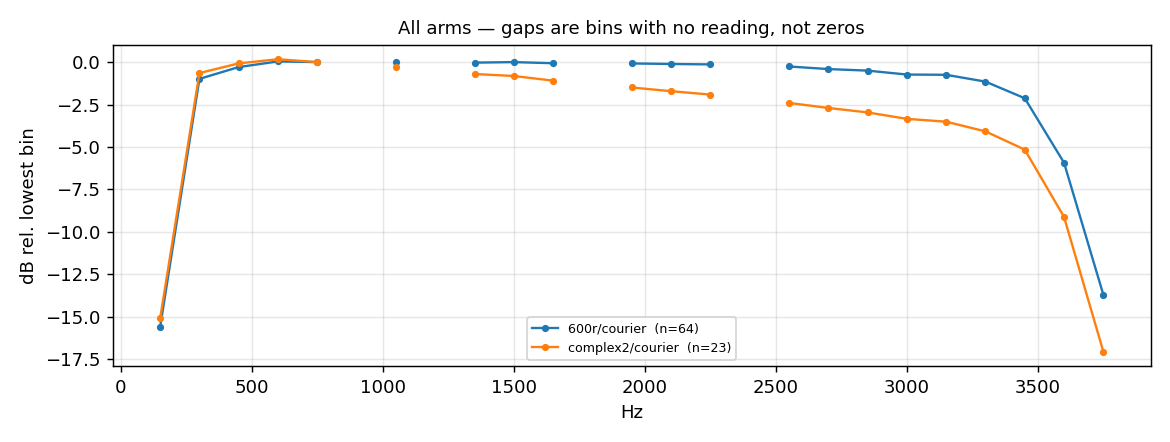
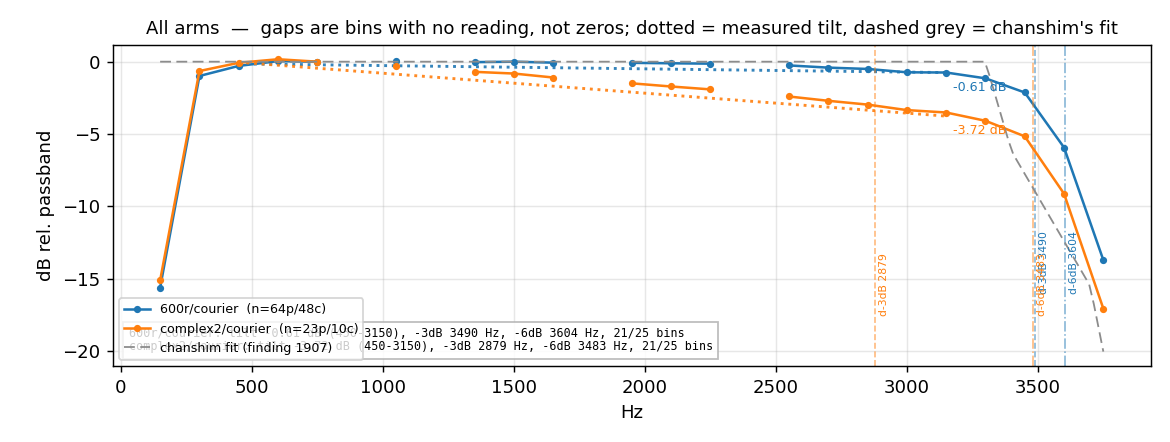
linesweep: stats subcommand, corner frequencies, annotated plot
Adds everything the numbers were being read out of ad-hoc commands for:

  stats   full text report per arm -- provenance (and whether the impedance is
          ASSERTED or EVIDENCED against a config sha256), denominators, both
          tilt bands with what each one means, passband reference, -3/-6 dB
          corners, and the per-bin delta against the curve chanshim hardcodes.
          Then an arm-to-arm block with the n of both sides beside it.

  plot    the measured tilt drawn as a dotted segment over the band it was
          measured in with its value, corner frequencies as labelled verticals,
          1907's fit as a grey dashed reference, and a facts box per panel.

Corners are interpolated BETWEEN TWO MEASURED BINS -- both endpoints are
readings, so this is interpolation and not extrapolation -- and are None rather
than pinned to the last bin when the curve never crosses.

It also no longer calls waitquiet.sh.  Whether the machine is quiet enough is
the caller's policy: a measurement tool that blocks on its own judgement cannot
characterise a loaded machine on purpose, and it hides a decision the operator
should be making.  The load is printed and recorded instead.

diff --git a/testbench/linesweep.py b/testbench/linesweep.py
@@ -166,6 +166,46 @@ def build_model(impedance, modem, logs, ata_config=None, note=None):
     tilt = None if tdb is None else round(float(tdb), 3)
     pts = [0] * tn
 
+    # Second band, reported alongside and never instead.  450-3150 is finding
+    # 1956's band and stops short of the codec corner, so it is TILT; the wider
+    # 300-3400 includes the corner, so it is tilt PLUS band limit.  They are
+    # different quantities and quoting one as the other is how a roll-off gets
+    # reported as a slope.
+    wdb, wn = bandshape.tilt(np.asarray(r["f"], float),
+                             np.asarray(r["med"], float),
+                             np.asarray(r["ffrac"], float), 300.0, 3400.0)
+
+    # CORNER FREQUENCIES, by linear interpolation BETWEEN TWO MEASURED BINS.
+    # That is interpolation, not extrapolation: both endpoints are readings and
+    # the answer lies between them.  If the curve never crosses, the corner is
+    # None -- it is not pinned to the last bin.
+    read = [(b["hz"], b["db"]) for b in bins
+            if b["is_reading"] and not b["is_noise_bin"]]
+    ref = None
+    corners = {}
+    if read:
+        band = [d for f, d in read if 300.0 <= f <= 1000.0]
+        ref = float(np.median(band)) if band else float(read[0][1])
+        for drop in (3.0, 6.0):
+            hit = None
+            for (f0, d0), (f1, d1) in zip(read, read[1:]):
+                if f1 < 1000.0:
+                    continue
+                if (d0 - ref) >= -drop > (d1 - ref):
+                    t = ((ref - drop) - d0) / (d1 - d0)
+                    hit = round(f0 + t * (f1 - f0), 1)
+                    break
+            corners[f"minus{int(drop)}db_hz"] = hit
+
+    fit_delta = []
+    for hz in (3300.0, 3450.0, 3600.0, 3750.0):
+        b = next((x for x in bins if x["hz"] == hz), None)
+        if b and b["db"] is not None:
+            fit_delta.append({"hz": hz, "measured_db": round(b["db"], 2),
+                              "fit_db": round(float(bandshape.fit_db(hz)), 2),
+                              "delta_db": round(b["db"]
+                                                - float(bandshape.fit_db(hz)), 2)})
+
     return {
         "schema": SCHEMA,
         "impedance": {
@@ -180,7 +220,13 @@ def build_model(impedance, modem, logs, ata_config=None, note=None):
         "n_bins_read": sum(1 for b in bins if b["is_reading"]),
         "n_bins_total": len(bins),
         "tilt": {"band_hz": [lo, hi], "db": tilt,
-                 "n_points": len(pts)} if tilt is not None else None,
+                 "n_points": tn} if tilt is not None else None,
+        "tilt_wide": ({"band_hz": [300.0, 3400.0], "db": round(float(wdb), 3),
+                       "n_points": wn} if wdb is not None else None),
+        "passband_ref_db": (None if ref is None else round(ref, 3)),
+        "corners_hz": corners,
+        "n_bins_floored": sum(1 for b in bins if not b["is_reading"]),
+        "vs_1907_fit": fit_delta,
         "note": note,
         "captures": [os.path.basename(p).split(".")[0] for p in logs],
         "bins": bins,
@@ -235,11 +281,26 @@ def cmd_measure(a):
         sys.exit(f"linesweep: cannot resolve an extension for '{a.modem}'")
     stamp = _dt.datetime.now().strftime("%Y%m%d-%H%M")
     labels = []
+    # THIS DOES NOT WAIT FOR A QUIET MACHINE, DELIBERATELY.  Whether the box
+    # is quiet enough to measure on is the caller's policy, not this tool's: a
+    # measurement tool that blocks on its own judgement cannot be used to
+    # characterise a loaded machine on purpose, and it hides a decision the
+    # operator should be making.  `waitquiet.sh` is right there:
+    #
+    #     testbench/waitquiet.sh && linesweep.py measure ...
+    #
+    # Finding 1951 is why it matters -- a call at load 4.28 returned CONNECT
+    # 4800 against 31200 quiet.  The load is recorded with every arm so a
+    # result taken on a busy box can at least be identified later.
     print(f'measuring {a.modem} (ext {ext}) at impedance '
           f'{a.impedance} -- {a.calls} calls')
+    try:
+        print(f'  load at start: {os.getloadavg()[0]:.2f}  '
+              f'(this tool does not gate on it -- see waitquiet.sh)')
+    except OSError:
+        pass
     for i in range(1, a.calls + 1):
         lab = f"ls-{a.impedance}-{a.modem}-{stamp}-{i}"
-        subprocess.run([os.path.join(BENCH, "waitquiet.sh")], check=False)
         r = subprocess.run(["timeout", "220", row,
                             os.path.join(BENCH, "captures", lab), "pty", ext],
                            capture_output=True, text=True)
@@ -314,6 +375,86 @@ def cmd_compare(a):
     return 0
 
 
+
+def _fmt_arm(m):
+    out = []
+    a = out.append
+    imp, role = m["impedance"]["asserted"], m["modem"]["role"]
+    ev = "EVIDENCED" if m["impedance"]["evidence"] else "ASSERTED (operator's word)"
+    a(f'{imp} / {role}')
+    a(f'  provenance     {ev}')
+    if m["impedance"]["evidence"]:
+        e = m["impedance"]["evidence"]
+        a(f'                 {os.path.basename(e["path"])}  '
+          f'sha256 {e["sha256"][:16]}...')
+        a(f'                 {e["ports_setting_impedance"]} port(s) set it: '
+          f'{", ".join(e["impedance_lines"]) or "(none in file)"}')
+    if m["modem"].get("identity"):
+        a(f'  modem          {m["modem"]["identity"][:88]}')
+    a(f'  measured       {m["measured_utc"]}')
+    a(f'  denominators   {m["n_calls"]} calls, {m["n_probes"]} probes, '
+      f'{m["n_bins_read"]}/{m["n_bins_total"]} bins read '
+      f'({m["n_bins_floored"]} floored)')
+    if m.get("note"):
+        a(f'  note           {m["note"]}')
+    a('')
+    t, w = m.get("tilt"), m.get("tilt_wide")
+    if t:
+        a(f'  tilt   {t["band_hz"][0]:.0f}-{t["band_hz"][1]:.0f} Hz  '
+          f'{t["db"]:+6.2f} dB over {t["n_points"]} bins   '
+          f'<- 1956 band, stops short of the corner: this IS the tilt')
+    if w:
+        a(f'  tilt   {w["band_hz"][0]:.0f}-{w["band_hz"][1]:.0f} Hz  '
+          f'{w["db"]:+6.2f} dB over {w["n_points"]} bins   '
+          f'<- includes the corner: tilt PLUS band limit')
+    c = m.get("corners_hz") or {}
+    ref = m.get("passband_ref_db")
+    if ref is not None:
+        a(f'  passband ref   {ref:+.2f} dB  (median 300-1000 Hz)')
+    for k, lbl in (("minus3db_hz", "-3 dB"), ("minus6db_hz", "-6 dB")):
+        v = c.get(k)
+        a(f'  corner {lbl}   ' + (f'{v:.0f} Hz  (interpolated between two '
+                                  f'measured bins)' if v else
+                                  'not crossed within the measured band'))
+    if m.get("vs_1907_fit"):
+        a('')
+        a("  against the curve chanshim.py hardcodes (finding 1907's fit):")
+        a(f'    {"Hz":>6} {"measured":>10} {"fit":>9} {"delta":>9}')
+        for d in m["vs_1907_fit"]:
+            a(f'    {d["hz"]:>6.0f} {d["measured_db"]:>10.2f} '
+              f'{d["fit_db"]:>9.2f} {d["delta_db"]:>+9.2f}')
+    return out
+
+
+def cmd_stats(a):
+    ms = [m for m in load_all() if not a.modem or m["modem"]["role"] == a.modem]
+    if not ms:
+        sys.exit("linesweep: no models match. Nothing to report.")
+    for m in ms:
+        print("=" * 74)
+        print("\n".join(_fmt_arm(m)))
+        print()
+    if len(ms) >= 2:
+        print("=" * 74)
+        print("ARM TO ARM\n")
+        base = ms[0]
+        for m in ms[1:]:
+            print(f'  {m["impedance"]["asserted"]}/{m["modem"]["role"]} '
+                  f'minus {base["impedance"]["asserted"]}/{base["modem"]["role"]}')
+            for k, lbl in (("tilt", "tilt 450-3150"), ("tilt_wide", "tilt 300-3400")):
+                if m.get(k) and base.get(k):
+                    print(f'    {lbl:<16} {m[k]["db"] - base[k]["db"]:+.2f} dB')
+            for k, lbl in (("minus3db_hz", "-3 dB corner"),
+                           ("minus6db_hz", "-6 dB corner")):
+                x, y = (m.get("corners_hz") or {}).get(k), (base.get("corners_hz") or {}).get(k)
+                if x and y:
+                    print(f'    {lbl:<16} {x - y:+.0f} Hz  ({y:.0f} -> {x:.0f})')
+            print(f'    n                {base["n_probes"]} vs {m["n_probes"]} probes'
+                  f'  -- read every number above against these')
+            print()
+    return 0
+
+
 def cmd_plot(a):
     import matplotlib
     matplotlib.use("Agg")
@@ -328,17 +469,56 @@ def cmd_plot(a):
     axes = axes[:, 0]
 
     def draw(ax, models, title):
+        facts = []
         for m in models:
             f = [b["hz"] for b in m["bins"]]
             d = [b["db"] if b["db"] is not None else np.nan for b in m["bins"]]
-            ax.plot(f, d, marker="o", ms=3, lw=1.3,
-                    label=f'{m["impedance"]["asserted"]}/{m["modem"]["role"]}'
-                          f'  (n={m["n_probes"]})')
+            ln, = ax.plot(f, d, marker="o", ms=3, lw=1.4,
+                          label=f'{m["impedance"]["asserted"]}/'
+                                f'{m["modem"]["role"]}  (n={m["n_probes"]}p/'
+                                f'{m["n_calls"]}c)')
+            col = ln.get_color()
+            # tilt, drawn where it was measured so the number has a place
+            t = m.get("tilt")
+            if t and m.get("passband_ref_db") is not None:
+                lo_, hi_ = t["band_hz"]
+                y0 = m["passband_ref_db"]
+                ax.plot([lo_, hi_], [y0, y0 + t["db"]], ls=":", lw=1.6,
+                        color=col, alpha=.9)
+                ax.annotate(f'{t["db"]:+.2f} dB', xy=(hi_, y0 + t["db"]),
+                            xytext=(4, -10), textcoords="offset points",
+                            fontsize=7, color=col)
+            for k, ls_ in (("minus3db_hz", "--"), ("minus6db_hz", "-.")):
+                hz = (m.get("corners_hz") or {}).get(k)
+                if hz:
+                    ax.axvline(hz, ls=ls_, lw=.9, color=col, alpha=.55)
+                    ax.annotate(f'{k[6]}{"" if k[5]=="3" else ""}'
+                                f'{"-3dB" if "3" in k else "-6dB"} {hz:.0f}',
+                                xy=(hz, ax.get_ylim()[0]), xytext=(2, 4),
+                                textcoords="offset points", fontsize=6,
+                                color=col, rotation=90)
+            c = m.get("corners_hz") or {}
+            facts.append(
+                f'{m["impedance"]["asserted"]}/{m["modem"]["role"]}: '
+                f'tilt {t["db"]:+.2f} dB (450-3150), '
+                f'-3dB {c.get("minus3db_hz") or float("nan"):.0f} Hz, '
+                f'-6dB {c.get("minus6db_hz") or float("nan"):.0f} Hz, '
+                f'{m["n_bins_read"]}/{m["n_bins_total"]} bins'
+                if t else f'{m["impedance"]["asserted"]}: tilt not computable')
+        # the curve the emulator hardcodes, for reference only
+        fr = np.linspace(150, 3750, 200)
+        ax.plot(fr, [bandshape.fit_db(x) for x in fr], color="0.55", lw=1.0,
+                ls=(0, (6, 3)), label="chanshim fit (finding 1907)")
         ax.set_title(title, fontsize=10)
-        ax.set_xlabel("Hz"); ax.set_ylabel("dB rel. lowest bin")
-        ax.grid(alpha=.3); ax.legend(fontsize=7)
+        ax.set_xlabel("Hz"); ax.set_ylabel("dB rel. passband")
+        ax.grid(alpha=.3); ax.legend(fontsize=7, loc="lower left")
+        if facts:
+            ax.text(0.015, 0.04, "\n".join(facts), transform=ax.transAxes,
+                    fontsize=6.5, va="bottom", family="monospace",
+                    bbox=dict(fc="white", ec="0.7", alpha=.85, pad=3))
 
-    draw(axes[0], ms, "All arms — gaps are bins with no reading, not zeros")
+    draw(axes[0], ms, "All arms  —  gaps are bins with no reading, not zeros; "
+                      "dotted = measured tilt, dashed grey = chanshim's fit")
     if n > 1:
         for ax, role in zip(axes[1:], roles):
             draw(ax, [m for m in ms if m["modem"]["role"] == role],
@@ -378,6 +558,9 @@ def main():
     p = sub.add_parser("compare")
     p.add_argument("--modem"); p.add_argument("--emit-chanshim", action="store_true")
     p.set_defaults(fn=cmd_compare)
+
+    p = sub.add_parser("stats", help="full text report, all the numbers")
+    p.add_argument("--modem"); p.set_defaults(fn=cmd_stats)
 
     p = sub.add_parser("plot")
     p.add_argument("-o", "--out"); p.add_argument("--per-modem", action="store_true",
